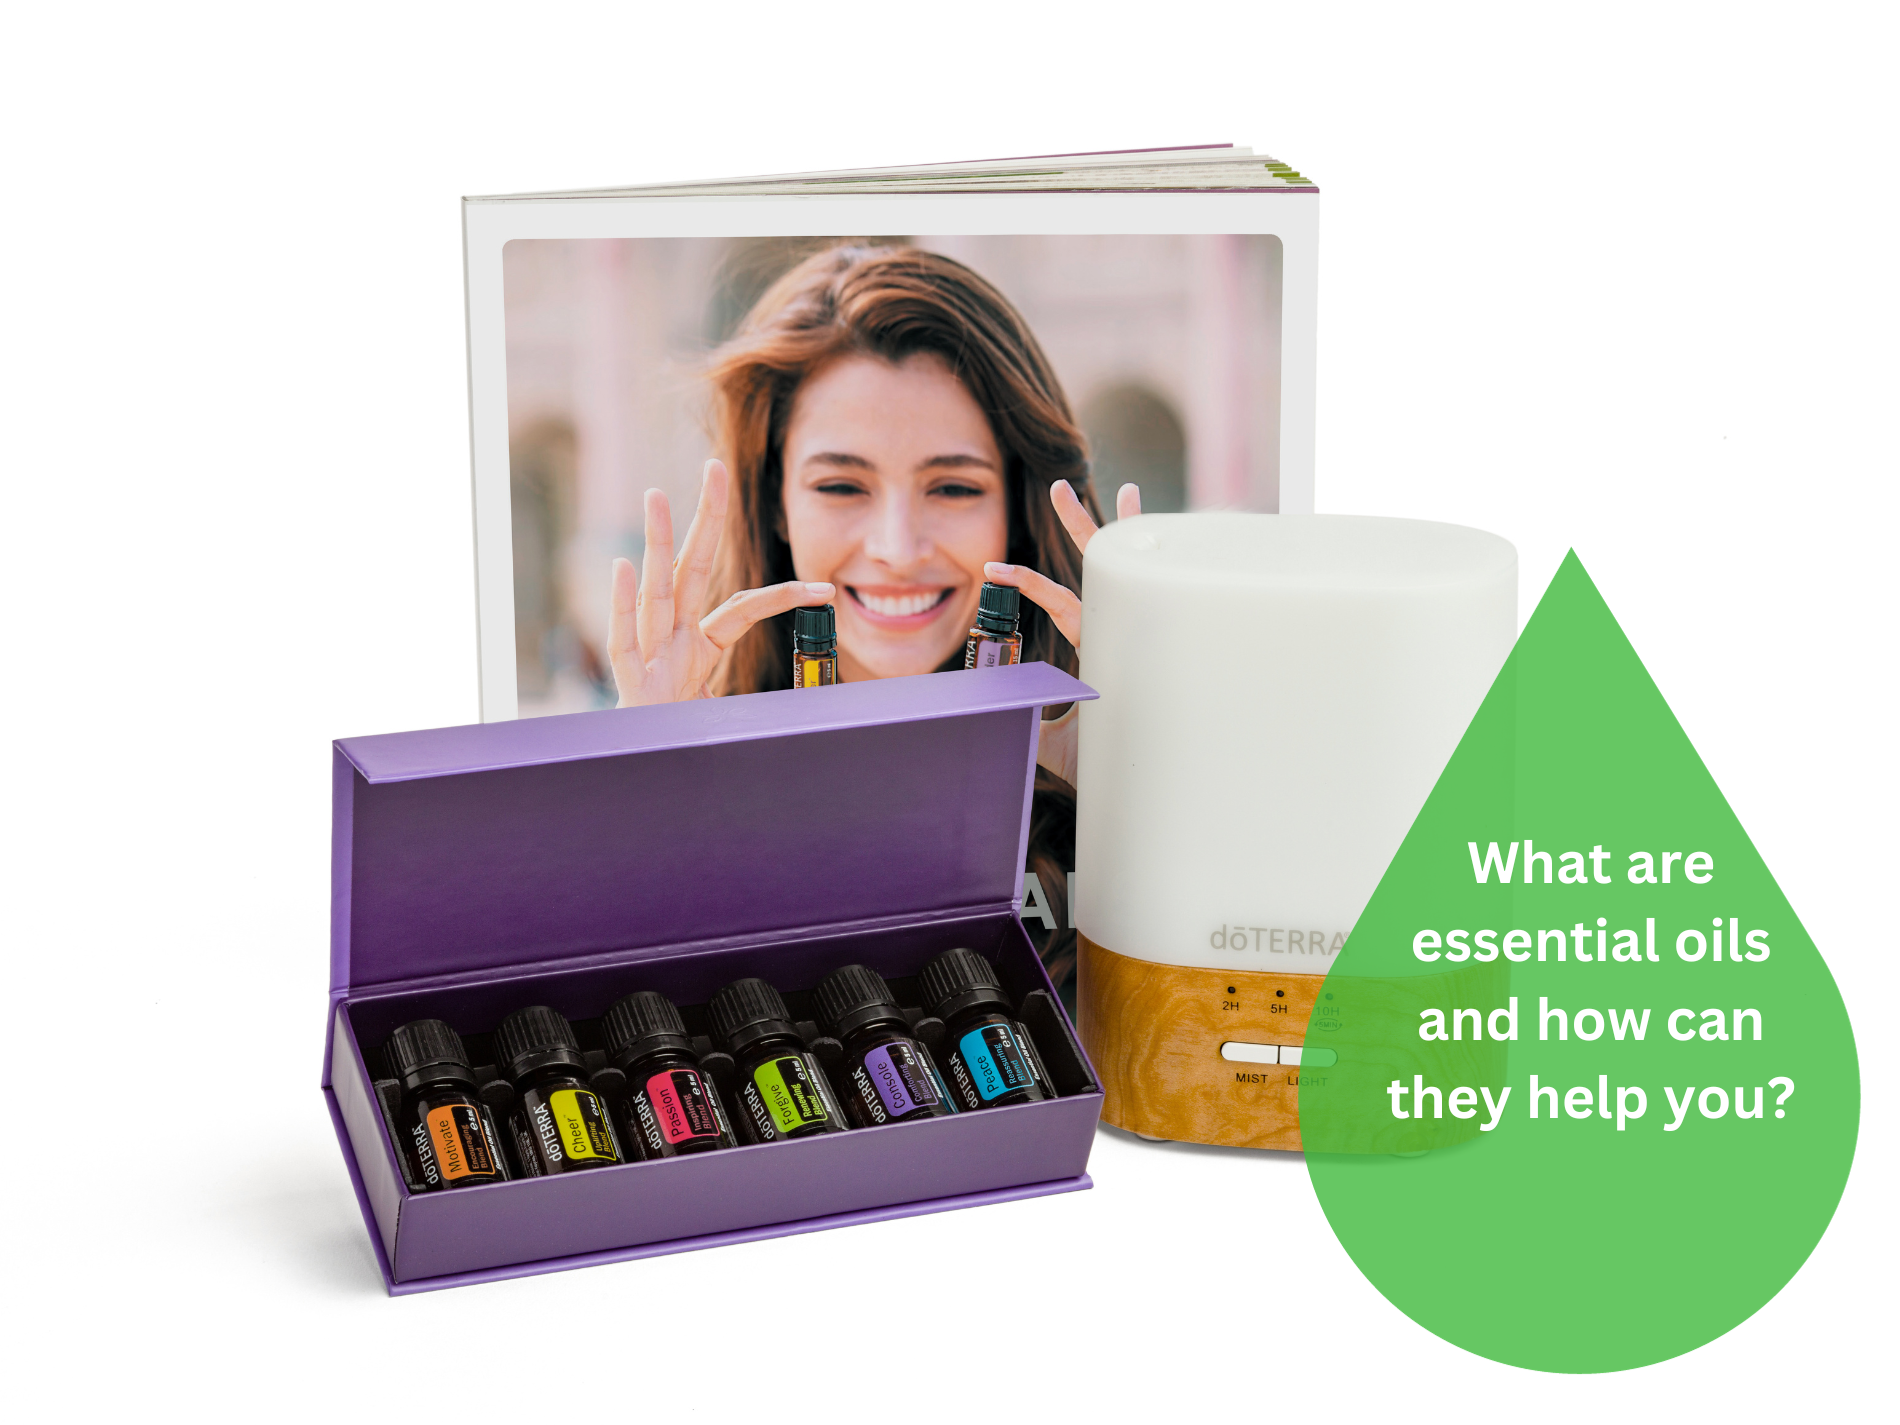
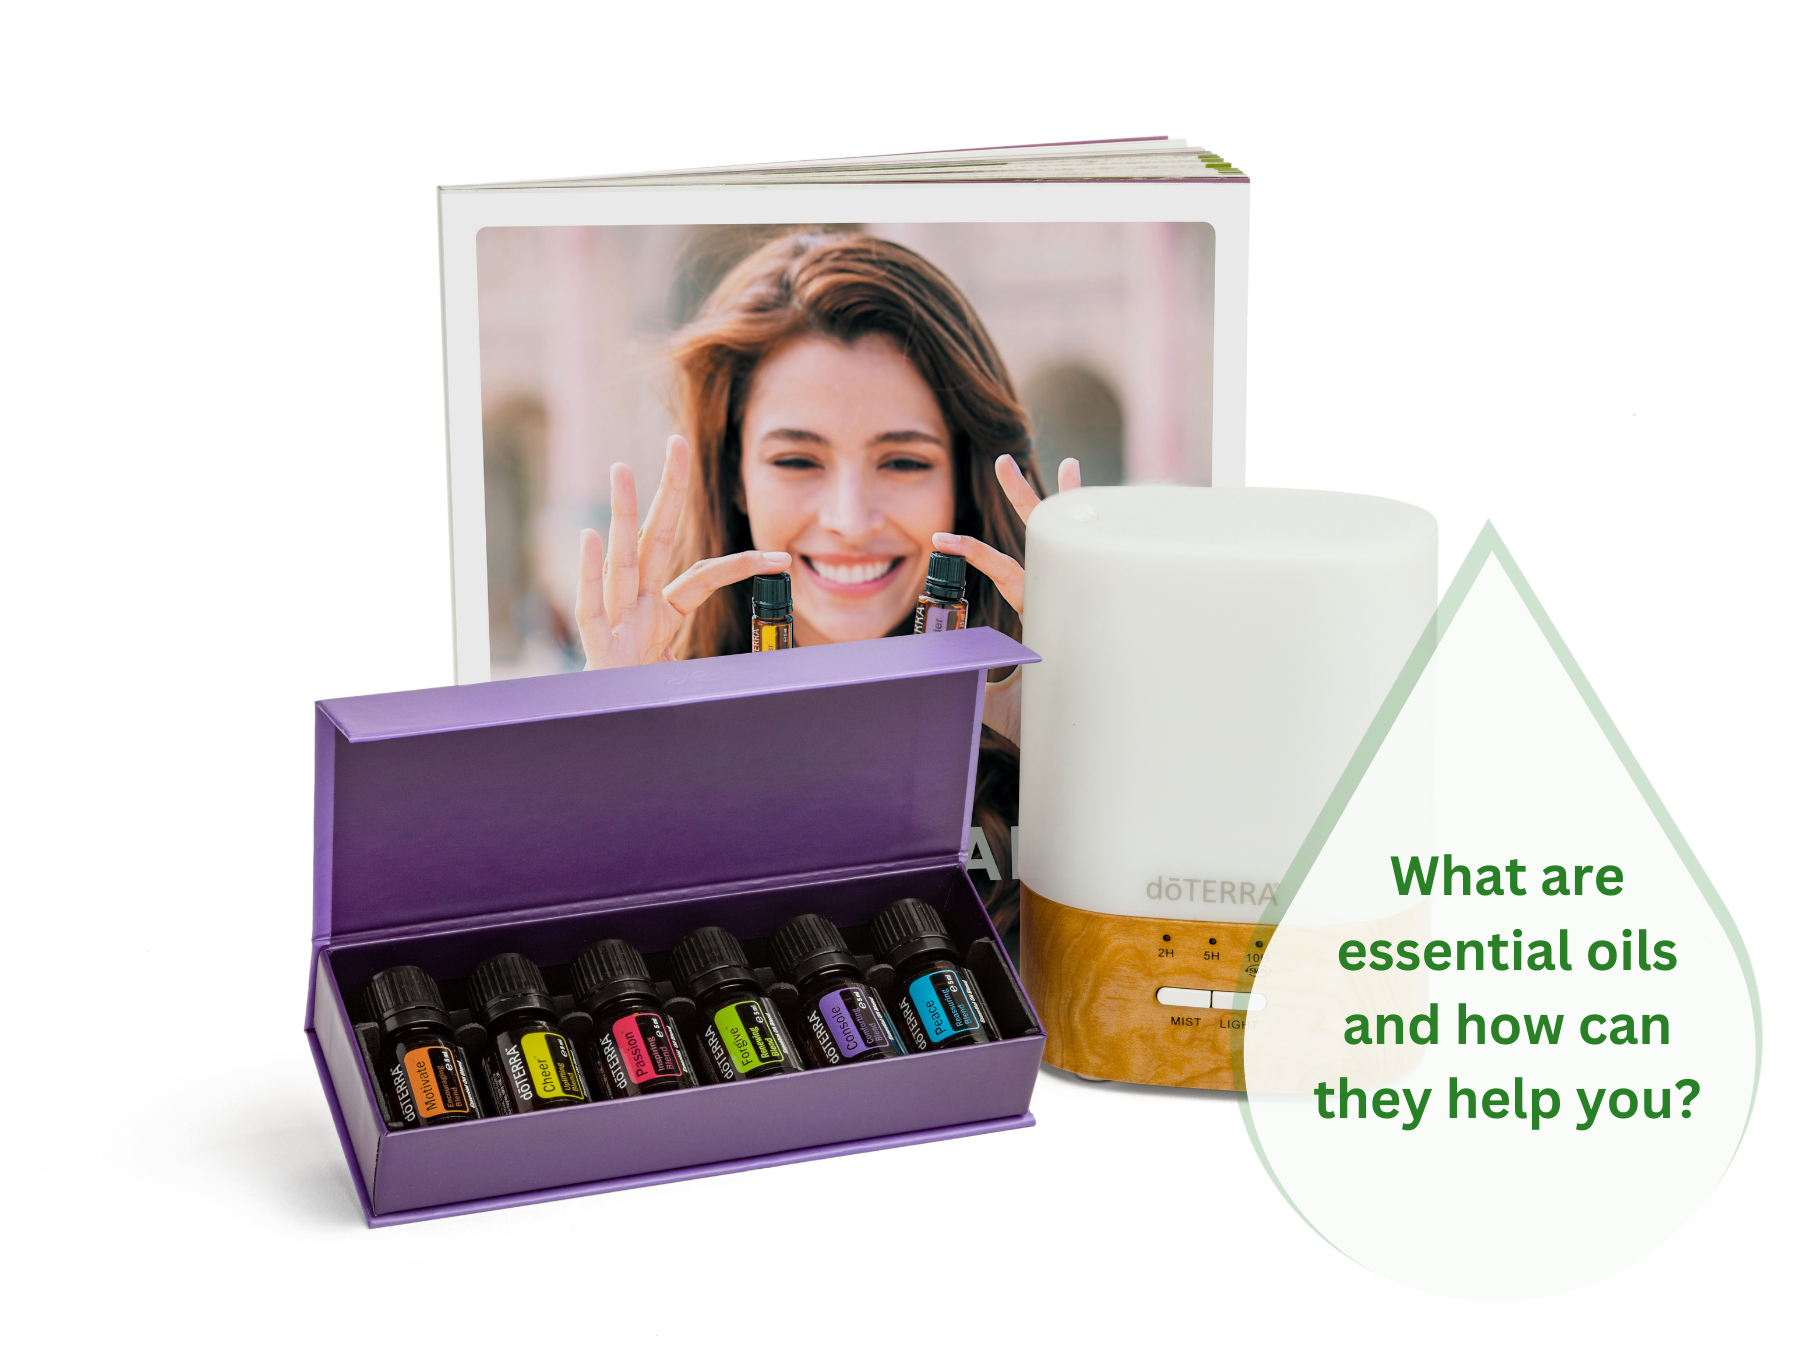
Update about oils image and changed body text color

Changed region(s): [[0.6844, 0.3733, 0.9956, 0.9644]]

diff --git a/static/css/style.css b/static/css/style.css
@@ -2,6 +2,7 @@
 
 body {
     font-family: 'Libre Bodoni', sans-serif;
+    color: black;
 }
 
 #nav-button {
@@ -89,7 +90,7 @@ p {
 
 #find-more-tool {
     color: #ffff;
-    background-color: #EB3752;
+    background-color: #2a8027;
     width: 100%;
     padding-top: 8px;
     padding-bottom: 5px;
@@ -104,6 +105,6 @@ p {
     font-weight:bold ;
     font-size: 1.3rem;
     border-top: 5px solid;
-    border-color: #EB3752;
-    color: #EB3752;
+    border-color: #2a8027;
+    color: #2a8027;
 }

diff --git a/templates/index.html b/templates/index.html
@@ -39,7 +39,7 @@
     </div>
     <div class="container custom-container">
         <div class="row">
-            <div class="col-12 col-md-6">
+            <div class="col-12 col-md-6 text-center">
                 <h2>Join My Team</h2>
             </div>
             <div class="col-12 col-md-6">
